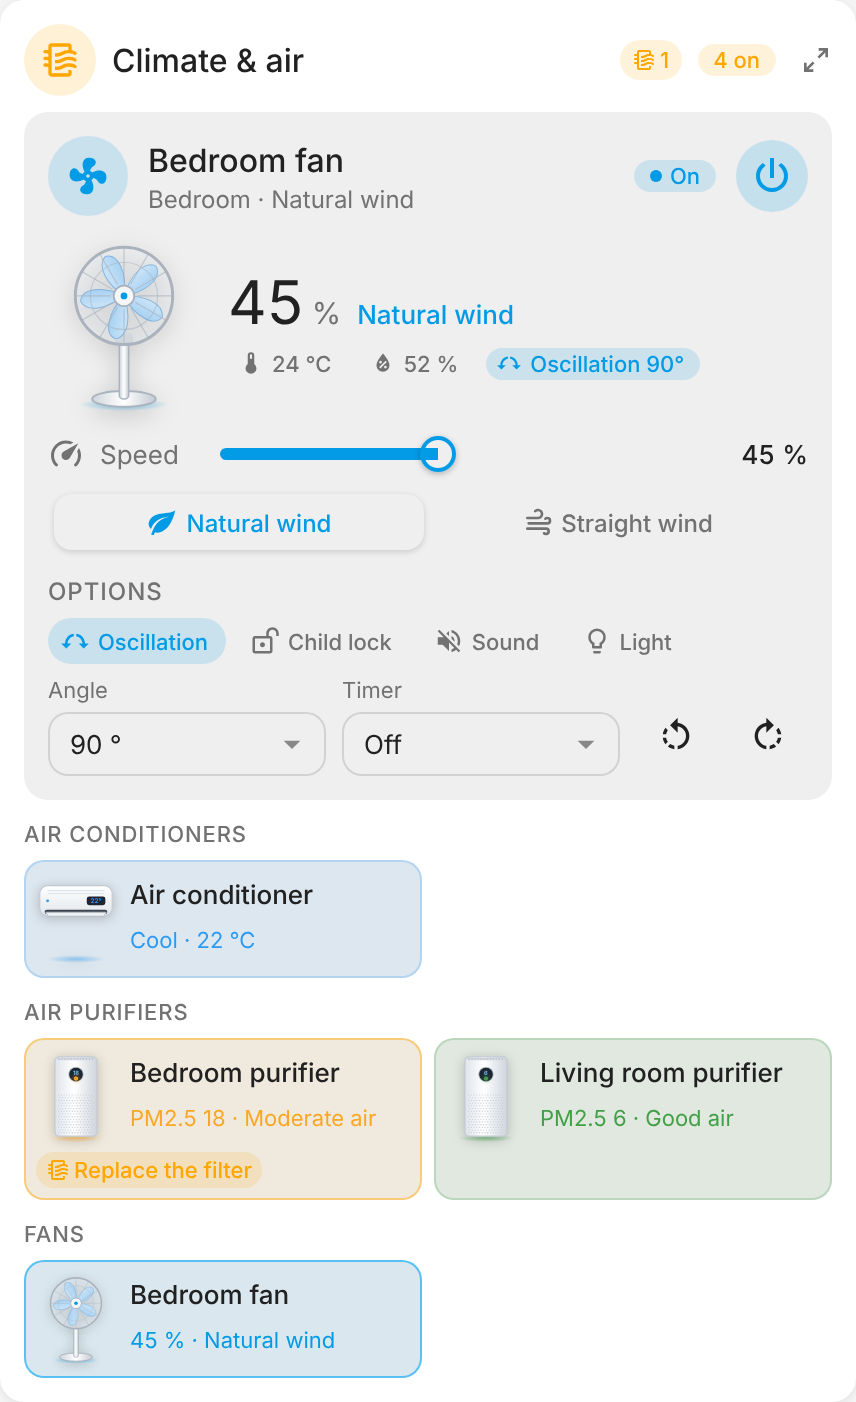
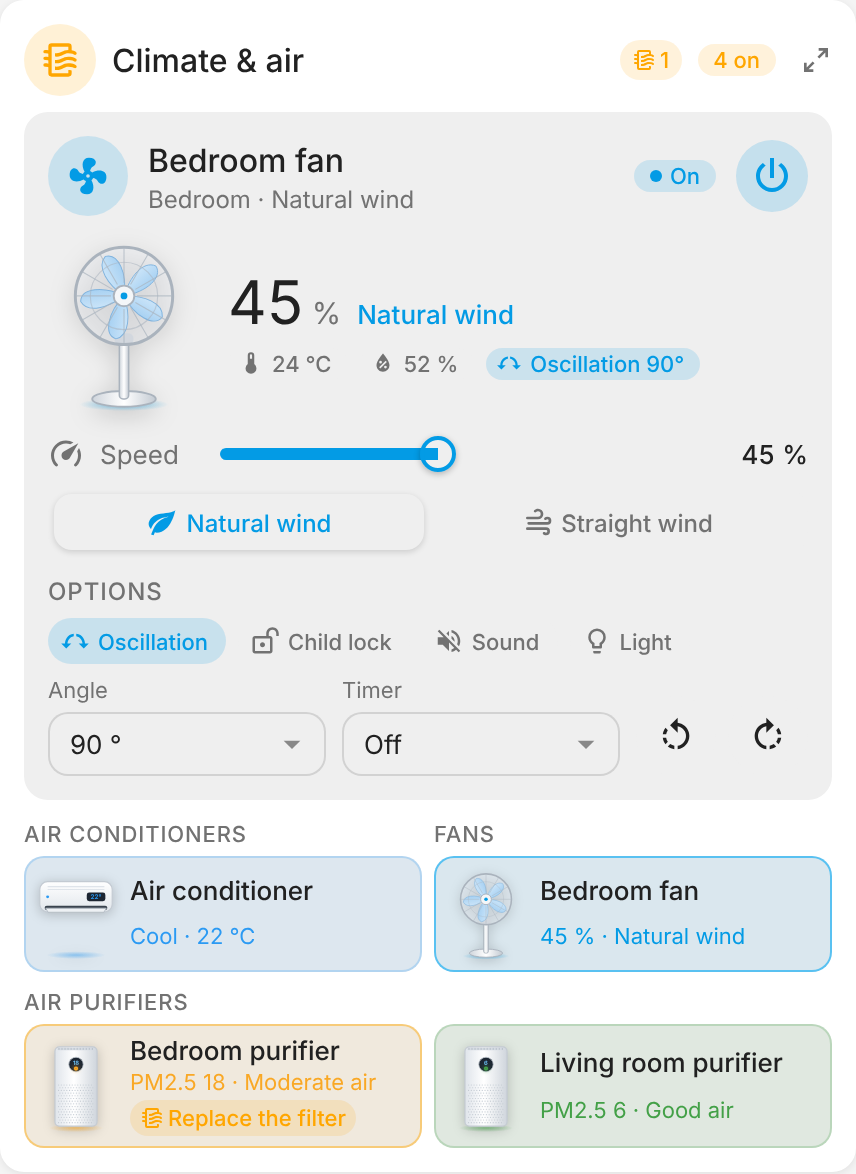
Pack the overview groups side by side (1.3.2) (#1)
Each group spans as many columns as it has devices, so groups of one
device no longer leave half a row empty. The filter alert sits under
the tile's state instead of on a row of its own.

Claude-Session: https://claude.ai/code/session_01BHTXsUmPoBmtkPvY2vAkoq

diff --git a/src/climate-air-overview-card.js b/src/climate-air-overview-card.js
@@ -207,11 +207,21 @@ class ClimateAirOverviewCard extends CaElement {
       `${alertChip}<div class="pill">${caEsc(on.length ? this._t("running_n", { n: on.length }) : this._t("all_off"))}</div>${zoom}`;
 
     const body = card.querySelector(".body");
-    body.style.setProperty("--cols", c.columns || 2);
+    const cols = c.columns || 2;
+    body.style.setProperty("--cols", cols);
     body.classList.toggle("fixed", !!c.columns);
+    body.classList.toggle("packed", !!shown.length);
     if (!all.length) body.innerHTML = `<div class="empty">${caEsc(this._t("no_devices"))}</div>`;
     else if (!shown.length) body.innerHTML = `<div class="empty">${caEsc(this._t("nothing_on"))}</div>`;
-    else body.innerHTML = this._groups(shown).map(([title, items]) => `${title ? `<div class="group">${caEsc(title)}</div>` : ""}<div class="grid">${items.map((x) => this._tile(x, `${x.kind}-${all.indexOf(x)}`)).join("")}</div>`).join("");
+    // Each group takes as many columns as it has devices, so small groups sit side by side instead of leaving half a row empty.
+    else
+      body.innerHTML = this._groups(shown)
+        .map(
+          ([title, items]) =>
+            `<div class="grp" style="--span:${Math.min(items.length, cols)}">${title ? `<div class="group">${caEsc(title)}</div>` : ""}` +
+            `<div class="grid">${items.map((x) => this._tile(x, `${x.kind}-${all.indexOf(x)}`)).join("")}</div></div>`,
+        )
+        .join("");
 
     this._fillPanel(all.find((x) => x.id === this._open));
   }
@@ -327,32 +337,36 @@ const CA_OVERVIEW_STYLES = `
   .zoom:hover { background: color-mix(in srgb, var(--ca-idle) 16%, transparent); color: var(--primary-text-color); }
   .zoom:focus-visible { outline: 2px solid var(--primary-color); outline-offset: 1px; }
 
-  .group { margin: 10px 0 0; font-size: 11px; font-weight: 500; color: var(--secondary-text-color); text-transform: uppercase; letter-spacing: .04em; }
-  .grid { display: grid; grid-template-columns: repeat(var(--cols, 2), minmax(0, 1fr)); gap: 6px; margin-top: 6px; }
-  .body > .grid:first-child { margin-top: 8px; }
-  @container (max-width: 340px) { .body:not(.fixed) .grid { grid-template-columns: minmax(0, 1fr); } }
+  .body.packed { display: grid; grid-template-columns: repeat(var(--cols, 2), minmax(0, 1fr)); grid-auto-flow: row dense; gap: 2px 6px; margin-top: 4px; }
+  .grp { grid-column: span var(--span, 1); min-width: 0; }
+  .group { margin: 6px 0 0; font-size: 11px; font-weight: 500; color: var(--secondary-text-color); text-transform: uppercase; letter-spacing: .04em;
+           white-space: nowrap; overflow: hidden; text-overflow: ellipsis; }
+  .grid { display: grid; grid-template-columns: repeat(var(--span, 1), minmax(0, 1fr)); gap: 6px; margin-top: 4px; }
+  @container (max-width: 340px) { .body.packed:not(.fixed) { grid-template-columns: minmax(0, 1fr); }
+    .body:not(.fixed) .grp { grid-column: auto; } .body:not(.fixed) .grid { grid-template-columns: minmax(0, 1fr); } }
   .empty { padding: 12px; margin-top: 8px; text-align: center; font-size: 13px; color: var(--secondary-text-color);
            border-radius: 10px; background: var(--secondary-background-color, transparent); }
 
   .dev { --t: var(--ca-idle); box-sizing: border-box; cursor: pointer; min-width: 0; display: grid; grid-template-columns: 28px minmax(0, 1fr);
-         grid-template-areas: "ic name" "ic state" "chips chips"; column-gap: 7px; align-items: center; align-content: start;
+         grid-template-areas: "ic name" "ic state"; column-gap: 7px; align-items: center; align-content: center;
          padding: 6px 7px; border-radius: 10px; background: var(--secondary-background-color, transparent); border: 1px solid transparent;
          transition: background .2s, border-color .2s; outline: none; }
   .dev.on { background: color-mix(in srgb, var(--t) 9%, var(--secondary-background-color, transparent)); border-color: color-mix(in srgb, var(--t) 24%, transparent); }
+  .dev:has(.chips) { grid-template-areas: "ic name" "ic state" "ic chips"; }
   .dev.alert { border-color: color-mix(in srgb, var(--ca-warn) 45%, transparent); }
   .dev.na { opacity: .6; }
   .dev:hover { background: color-mix(in srgb, var(--t) 14%, var(--secondary-background-color, transparent)); }
   .dev:focus-visible { outline: 2px solid var(--primary-color); outline-offset: 2px; }
   .dev.sel { border-color: color-mix(in srgb, var(--primary-color) 60%, transparent); }
-  .ic { all: unset; grid-area: ic; align-self: start; cursor: pointer; width: 28px; height: 28px; border-radius: 50%; display: grid; place-items: center;
+  .ic { all: unset; grid-area: ic; align-self: center; cursor: pointer; width: 28px; height: 28px; border-radius: 50%; display: grid; place-items: center;
         color: var(--primary-text-color); background: color-mix(in srgb, var(--ca-idle) 14%, transparent); transition: background .2s, color .2s; }
   .dev.on .ic { color: var(--t); background: color-mix(in srgb, var(--t) 18%, transparent); }
   .ic:hover { box-shadow: 0 0 0 2px color-mix(in srgb, var(--t) 35%, transparent); }
   .ic:focus-visible { outline: 2px solid var(--primary-color); outline-offset: 1px; }
   .ic:disabled { cursor: default; }
   .ic ha-icon { --mdc-icon-size: 16px; display: flex; }
-  .dev:has(.ic.pic) { grid-template-columns: 40px minmax(0, 1fr); row-gap: 1px; padding: 5px 7px 5px 5px; }
-  .ic.pic { width: 40px; height: 46px; border-radius: 8px; background: none; grid-row: span 2; overflow: visible; }
+  .dev:has(.ic.pic) { grid-template-columns: 40px minmax(0, 1fr); padding: 5px 7px 5px 5px; }
+  .ic.pic { width: 40px; height: 46px; border-radius: 8px; background: none; grid-row: 1 / -1; overflow: visible; }
   .dev.on .ic.pic, .ic.pic:hover { background: none; box-shadow: none; }
   .ic.pic:hover .picture { transform: scale(1.06); }
   .ic.pic .picture { width: 40px; height: 46px; transition: transform .2s; }
@@ -365,9 +379,10 @@ const CA_OVERVIEW_STYLES = `
   .ic.breathe ha-icon { animation: ca-breathe 2.4s ease-in-out infinite; }
   .ic.pulse { animation: ca-ring 2.2s ease-out infinite; }
   .name { grid-area: name; font-size: 13px; font-weight: 500; line-height: 1.2; color: var(--primary-text-color); white-space: nowrap; overflow: hidden; text-overflow: ellipsis; }
-  .state { grid-area: state; font-size: 11px; line-height: 1.25; color: var(--secondary-text-color); white-space: nowrap; overflow: hidden; text-overflow: ellipsis; }
+  .state { grid-area: state; margin-top: 1px; font-size: 11px; line-height: 1.25; color: var(--secondary-text-color); white-space: nowrap; overflow: hidden; text-overflow: ellipsis; }
   .dev.on .state { color: var(--t); }
-  .chips { grid-area: chips; display: flex; flex-wrap: wrap; gap: 3px; margin-top: 4px; }
+  .chips { grid-area: chips; display: flex; flex-wrap: wrap; gap: 3px; margin-top: 2px; min-width: 0; }
+  .chips .chip { max-width: 100%; overflow: hidden; text-overflow: ellipsis; }
 
   .panel { margin-top: 8px; border-radius: 12px; overflow: hidden; background: var(--secondary-background-color, transparent);
            --ha-card-background: transparent; --card-background-color: transparent; --ha-card-box-shadow: none; --ha-card-border-width: 0; }

diff --git a/CHANGELOG.md b/CHANGELOG.md
@@ -1,5 +1,11 @@
 # Changelog
 
+## 1.3.2
+
+### Changes
+- Overview: a group no longer starts a new row of its own. Each group takes as many columns as it has devices, so groups of one device sit side by side instead of leaving half a row empty, with each group under its own heading.
+- Overview: a tile's filter alert sits under its state, beside the illustration, instead of on a row of its own across the tile.
+
 ## 1.3.1
 
 ### Fixes
